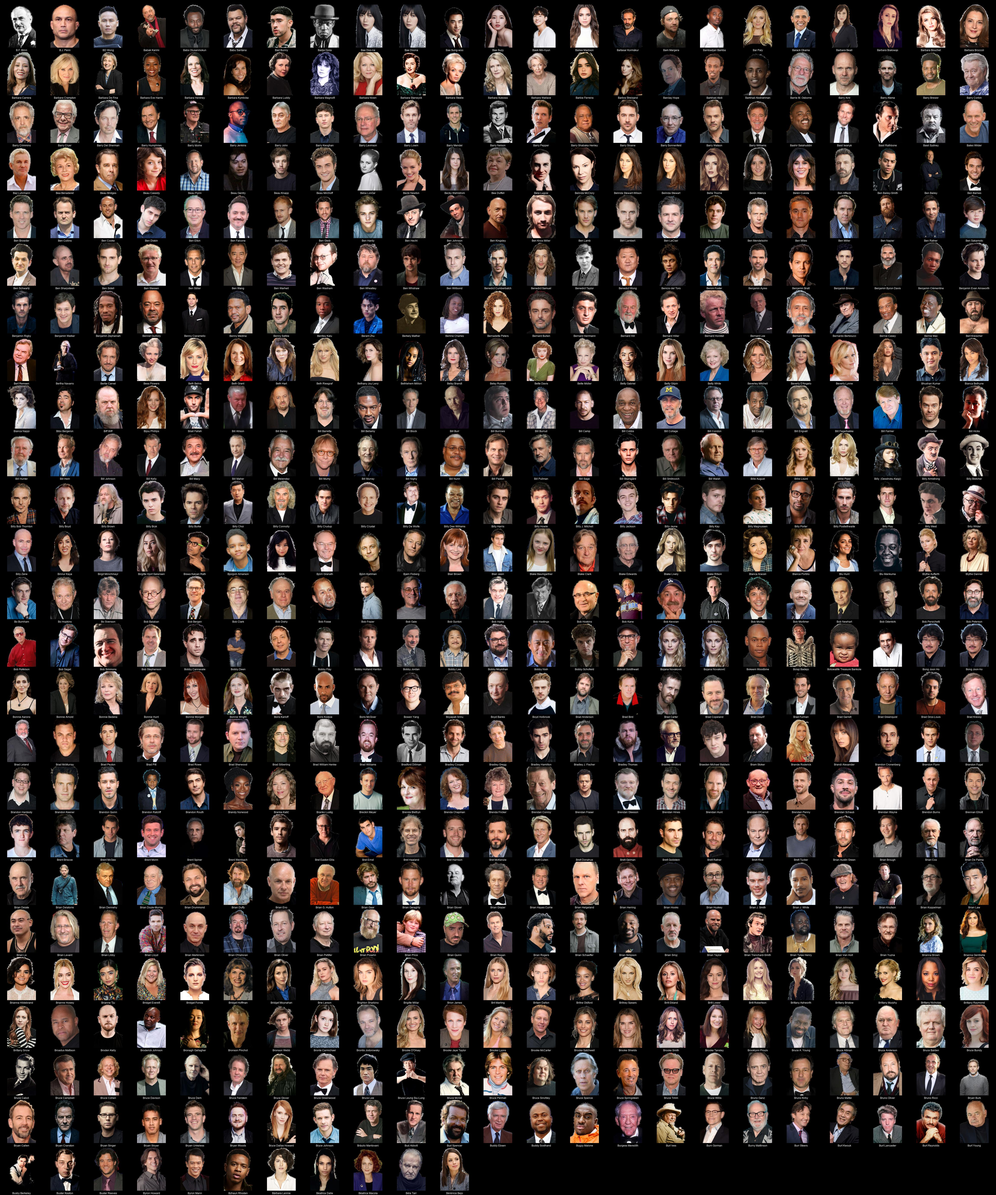
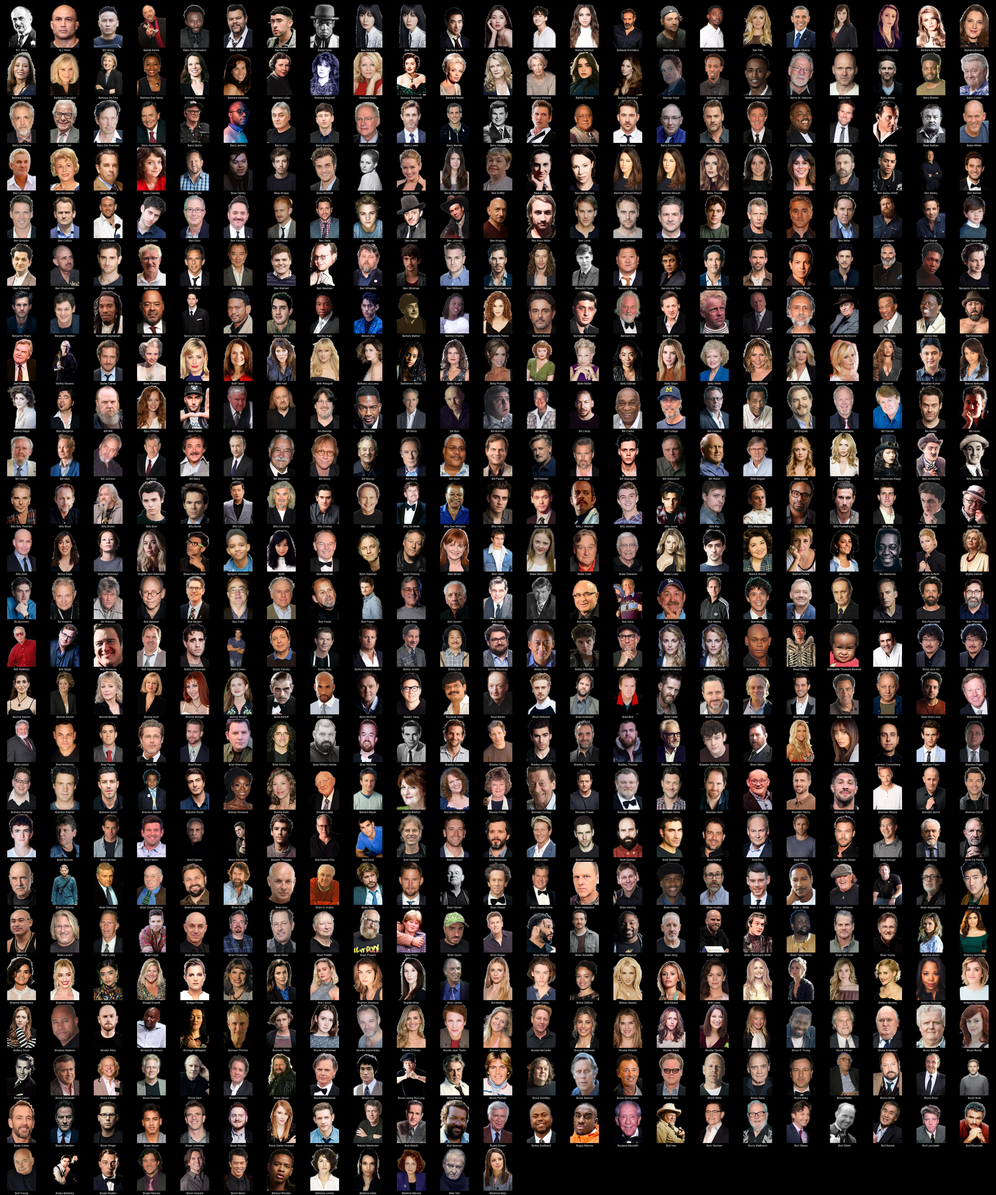
chore: sync posters & docs [transparent,diiivoycolor] — 2025-09-22 09:17

Changed region(s): [[0.0, 0.9659, 0.5285, 1.0], [0.8083, 0.9036, 0.9948, 0.9659]]

diff --git a/README.md b/README.md
@@ -1,4 +1,4 @@
-# Kometa People Images - Transparent (transparent) (11174 Images)
+# Kometa People Images - Transparent (transparent) (11175 Images)
 
 <details><summary><a href="'">' (1 Images)</a></summary>
 
@@ -917,7 +917,7 @@
 * [Aziz Ansari](https://raw.githubusercontent.com/kometa-team/People-Images-transparent/master/A/Images/Aziz%20Ansari.png)
 * [Azumi Waki](https://raw.githubusercontent.com/kometa-team/People-Images-transparent/master/A/Images/Azumi%20Waki.png)
 </details>
-<details><summary><a href="B">B (563 Images)</a></summary>
+<details><summary><a href="B">B (564 Images)</a></summary>
 
 * [B.F. Blinn](https://raw.githubusercontent.com/kometa-team/People-Images-transparent/master/B/Images/B.F.%20Blinn.png)
 * [B.J. Penn](https://raw.githubusercontent.com/kometa-team/People-Images-transparent/master/B/Images/B.J.%20Penn.png)
@@ -1467,6 +1467,7 @@
 * [Burn Gorman](https://raw.githubusercontent.com/kometa-team/People-Images-transparent/master/B/Images/Burn%20Gorman.png)
 * [Burny Mattinson](https://raw.githubusercontent.com/kometa-team/People-Images-transparent/master/B/Images/Burny%20Mattinson.png)
 * [Burr Steers](https://raw.githubusercontent.com/kometa-team/People-Images-transparent/master/B/Images/Burr%20Steers.png)
+* [Burt Gillett](https://raw.githubusercontent.com/kometa-team/People-Images-transparent/master/B/Images/Burt%20Gillett.png)
 * [Burt Kwouk](https://raw.githubusercontent.com/kometa-team/People-Images-transparent/master/B/Images/Burt%20Kwouk.png)
 * [Burt Lancaster](https://raw.githubusercontent.com/kometa-team/People-Images-transparent/master/B/Images/Burt%20Lancaster.png)
 * [Burt Reynolds](https://raw.githubusercontent.com/kometa-team/People-Images-transparent/master/B/Images/Burt%20Reynolds.png)

diff --git a/B/README.md b/B/README.md
@@ -1,4 +1,4 @@
-# Kometa People Images - Transparent (transparent) - B (563 Images)
+# Kometa People Images - Transparent (transparent) - B (564 Images)
 ![Grid](grid.jpg)
 
 * [B.F. Blinn](https://raw.githubusercontent.com/kometa-team/People-Images-transparent/master/B/Images/B.F.%20Blinn.png)
@@ -549,6 +549,7 @@
 * [Burn Gorman](https://raw.githubusercontent.com/kometa-team/People-Images-transparent/master/B/Images/Burn%20Gorman.png)
 * [Burny Mattinson](https://raw.githubusercontent.com/kometa-team/People-Images-transparent/master/B/Images/Burny%20Mattinson.png)
 * [Burr Steers](https://raw.githubusercontent.com/kometa-team/People-Images-transparent/master/B/Images/Burr%20Steers.png)
+* [Burt Gillett](https://raw.githubusercontent.com/kometa-team/People-Images-transparent/master/B/Images/Burt%20Gillett.png)
 * [Burt Kwouk](https://raw.githubusercontent.com/kometa-team/People-Images-transparent/master/B/Images/Burt%20Kwouk.png)
 * [Burt Lancaster](https://raw.githubusercontent.com/kometa-team/People-Images-transparent/master/B/Images/Burt%20Lancaster.png)
 * [Burt Reynolds](https://raw.githubusercontent.com/kometa-team/People-Images-transparent/master/B/Images/Burt%20Reynolds.png)
